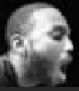
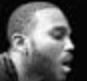
Updated the README and gave up and down direction to pacman

diff --git a/src/Pacman.js b/src/Pacman.js
@@ -1,3 +1,6 @@
+import MovingPacman from "./MovingPacman.js";
+
+
 export default class Pacman {
     constructor(x,y,gameSize, velocity, gameBoard) {
         this.x = x;
@@ -5,10 +8,17 @@ export default class Pacman {
         this.gameSize = gameSize;
         this.velocity = velocity;
         this.gameBoard = gameBoard;
+
+        this.currentMovingDirection = null;
+        this.requestedMovingDirection = null;
+
+        document.addEventListener("keydown", this.#keydown)
+
         this.#loadPacmanImages();
     }
 
     draw(ctx){
+        this.#move();
         ctx.drawImage(
             this.pacmanImages[this.pacmanImageIndex],
             this.x, 
@@ -26,7 +36,7 @@ export default class Pacman {
         pacmanImage2.src = '../images/PartialOpen.png';
 
         const pacmanImage3 = new Image();
-        pacmanImage3.src = '../images/Open.png';
+        pacmanImage3.src = '../images/OpenWide.png';
 
         const pacmanImage4 = new Image();
         pacmanImage4.src = '../images/PartialOpen.png';
@@ -40,5 +50,49 @@ export default class Pacman {
 
         this.pacmanImageIndex = 0;
     }  
+
+    #keydown =(event) => {
+//up
+if (event.keyCode == 38){
+    if(this.currentMovingDirection == MovingPacman.down)
+    this.currentMovingDirection = MovingPacman.up;
+    this.requestedMovingDirection = MovingPacman.up;
+}
+//down
+if (event.keyCode == 40){
+    if(this.currentMovingDirection == MovingPacman.up)
+    this.currentMovingDirection = MovingPacman.down;
+    this.requestedMovingDirection = MovingPacman.down;
+}
+//left
+if (event.keyCode == 37){
+    if(this.currentMovingDirection == MovingPacman.right)
+    this.currentMovingDirection = MovingPacman.left;
+    this.requestedMovingDirection = MovingPacman.left;
+}
+//right
+if (event.keyCode == 39){
+    if(this.currentMovingDirection == MovingPacman.left)
+    this.currentMovingDirection = MovingPacman.right;
+    this.requestedMovingDirection = MovingPacman.right;
+}
+    };
+    #move() {
+        if(this.currentMovingDirection !== this.requestedMovingDirection) {
+        if(Number.isInteger(this.x/this.gameSize) &&
+        Number.isInteger(this.y/this.gameSize)
+        ){
+            this.currentMovingDirection = this.requestedMovingDirection;
+        }
+    }
+        switch (this.currentMovingDirection) {
+            case MovingPacman.up:
+            this.y -= this.velocity;
+            break;
+            case MovingPacman.down:
+            this.y += this.velocity;
+            break;
+        }
+    }
 }
 

diff --git a/src/MovingPacman.js b/src/MovingPacman.js
@@ -1,0 +1,9 @@
+const MovingPacman = {
+    up: 0,
+    down: 1,
+    left: 2,
+    right: 3,
+
+};
+
+export default MovingPacman;

diff --git a/README.md b/README.md
@@ -93,6 +93,12 @@ Use draw to loop and display the images on the canvas along with setting the siz
 
 Create a  Pacman Js file to work on pacman
 
+Import Pacman Js file from the Gameboard Js and Export from the Pacman Js
 
+Give pacman a constructor and define x, y, velocity, the game size, and the gameboard
 
+Use a draw involving context to draw the pacman on the gameboard
 
+Load all the images need for pacman (mouth closed, partially open, and wide open) & define them to a variable.
+
+Use and array to be able to draw each image when needed
